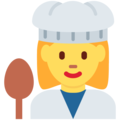
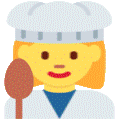
texture the player

diff --git a/src/main.rs b/src/main.rs
@@ -4,15 +4,12 @@ mod waves;
 
 // TODO
 // - at least 2 new enemies (grapes, bread stick)
-//      - grapes shoot projectiles. projectiles shoud be _super_ clear, and aren't killable. should
-//          not shoot while the player is close
 //      - bread sticks charge and make a sound, then run at you really quick without changing
 //          direction.
 // - better background
 // - texture everything
 // - animate the roll
 // - better knife hitbox for the chef, so it's easir to kill things on a diagonals
-// - limits on enemy counts (should be fairly high though)
 
 use assets::Assets;
 
@@ -489,14 +486,25 @@ fn render(state: &GameState, ass: &Assets) {
         draw_text(&score_text, 400.0, 330.0, 30.0, WHITE);
     }
 
-    if DEBUG_VIEW {
-        let player_col = match state.player_state() {
-            PlayerState::Walk => RED,
-            PlayerState::Roll => GOLD,
-            PlayerState::Recover => ORANGE,
-            PlayerState::Dead => MAROON,
-        };
+    let player_params = DrawTextureParams {
+        dest_size: Some(vec2(PLAYER_RADIUS, PLAYER_RADIUS) * 2.0),
+        ..Default::default()
+    };
+    let player_col = match state.player_state() {
+        PlayerState::Walk => WHITE,
+        PlayerState::Roll => WHITE,
+        PlayerState::Recover => GOLD,
+        PlayerState::Dead => MAROON,
+    };
+    draw_texture_ex(
+        ass.player,
+        state.player_pos.x - PLAYER_RADIUS,
+        state.player_pos.y - PLAYER_RADIUS,
+        player_col,
+        player_params,
+    );
 
+    if DEBUG_VIEW {
         draw_circle_lines(
             state.player_pos.x,
             state.player_pos.y,
@@ -514,48 +522,45 @@ fn render(state: &GameState, ass: &Assets) {
         );
     }
 
+    let lem_params = DrawTextureParams {
+        dest_size: Some(vec2(LEMON_RADIUS, LEMON_RADIUS) * 2.0),
+        ..Default::default()
+    };
     for l in &state.lemons {
-        let lem_params = DrawTextureParams {
-            dest_size: Some(vec2(LEMON_RADIUS, LEMON_RADIUS) * 2.0),
-            ..Default::default()
-        };
-
         draw_texture_ex(
             ass.lemon,
             l.pos.x - LEMON_RADIUS,
             l.pos.y - LEMON_RADIUS,
             WHITE,
-            lem_params,
+            lem_params.clone(),
         );
     }
 
+    let grape_params = DrawTextureParams {
+        dest_size: Some(vec2(GRAPE_RADIUS, GRAPE_RADIUS) * 2.0),
+        ..Default::default()
+    };
     for g in &state.grapes {
-        let lem_params = DrawTextureParams {
-            dest_size: Some(vec2(GRAPE_RADIUS, GRAPE_RADIUS) * 2.0),
-            ..Default::default()
-        };
-
         draw_texture_ex(
             ass.grape,
             g.pos.x - GRAPE_RADIUS,
             g.pos.y - GRAPE_RADIUS,
             WHITE,
-            lem_params,
+            grape_params.clone(),
         );
     }
 
+    let bull_params = DrawTextureParams {
+        dest_size: Some(vec2(BULLET_RADIUS, BULLET_RADIUS) * 2.0),
+        ..Default::default()
+    };
     for b in &state.bullets {
-        let lem_params = DrawTextureParams {
-            dest_size: Some(vec2(BULLET_RADIUS, BULLET_RADIUS) * 2.0),
-            ..Default::default()
-        };
-
         draw_texture_ex(
             ass.bullet,
             b.pos.x - BULLET_RADIUS,
             b.pos.y - BULLET_RADIUS,
             WHITE,
-            lem_params,
+            bull_params.clone(),
         );
     }
 }
